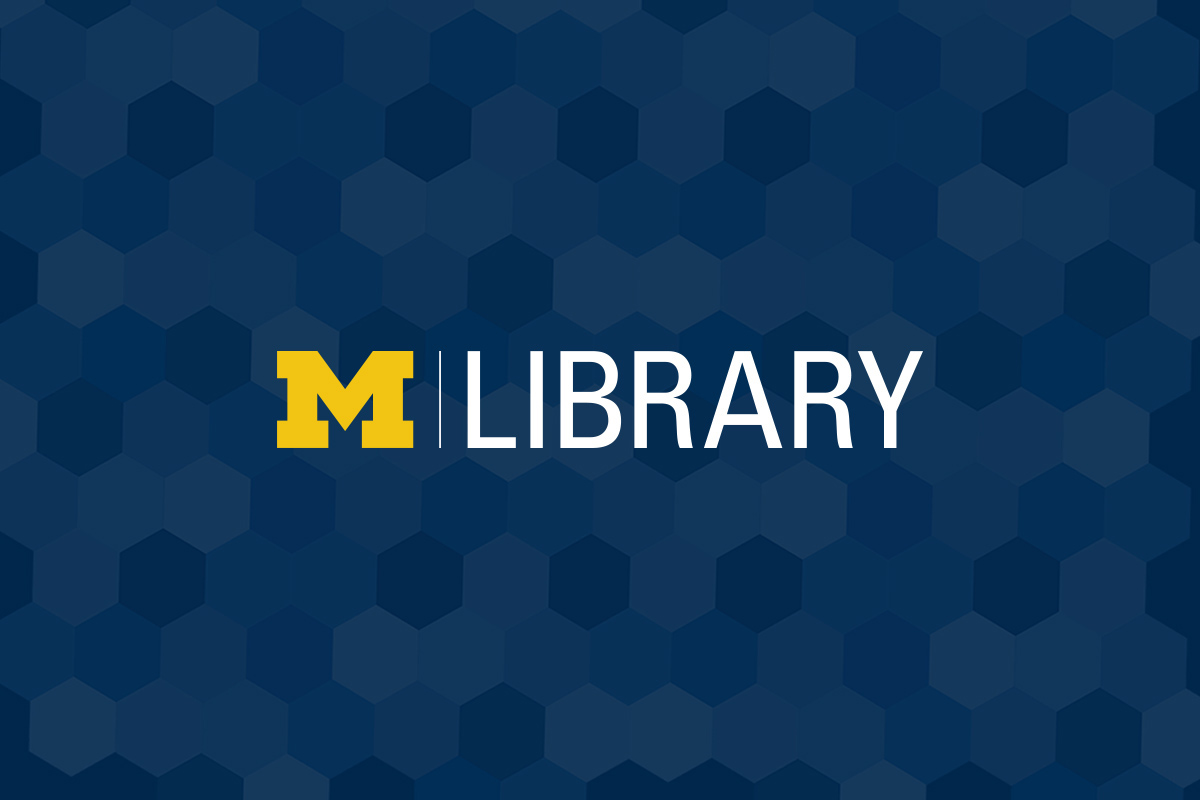
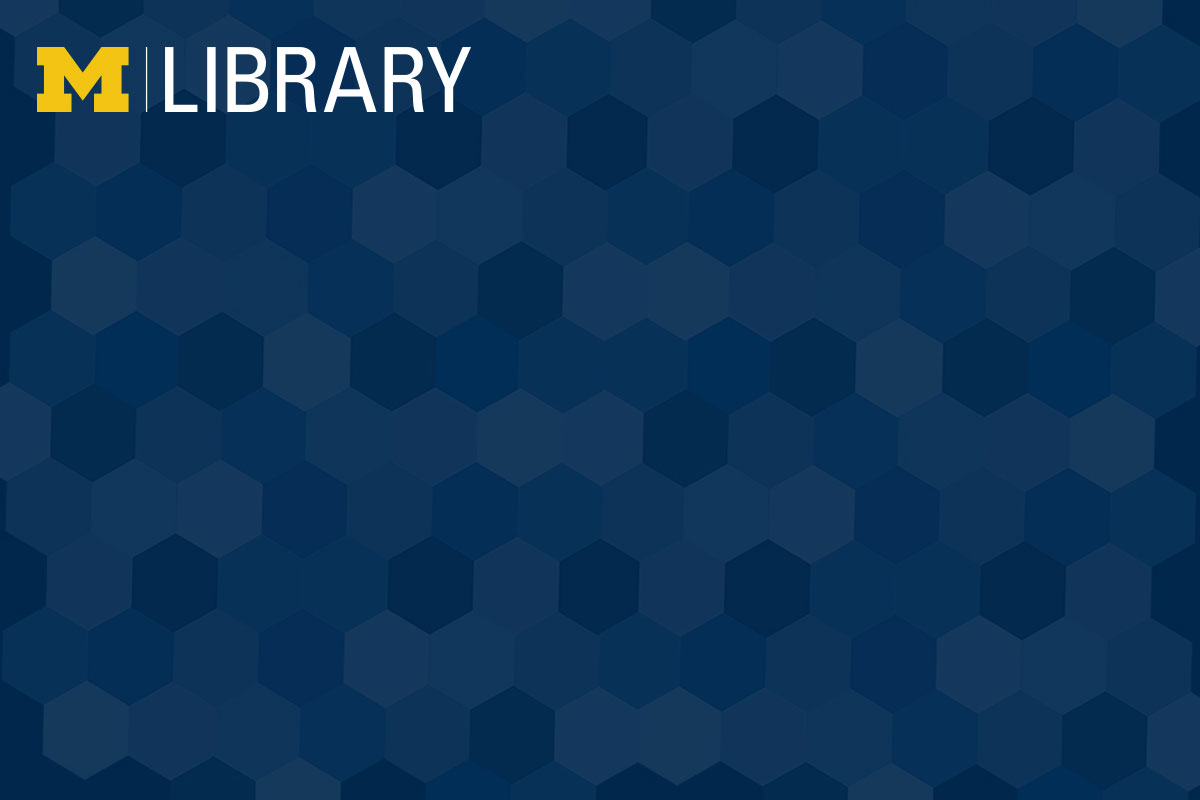
Markup review, update to images, and container fix

Changed region(s): [[0.2158, 0.4375, 0.7708, 0.5625], [0.0308, 0.0312, 0.4008, 0.1562]]

diff --git a/themes/mlibrary_new/css/style.css b/themes/mlibrary_new/css/style.css
@@ -116,10 +116,17 @@ main#content {
 
 .banner {
   margin: 0;
-  padding: 5em 0;
-  height: 20em;
+  height: 22em;
   background-size: cover;
-  background-position: center bottom;
+  background-position: center center;
+}
+
+.banner-container {
+  padding: 6.5em 0 0;
+}
+
+#header-claim-holder {
+    padding-bottom: 3em;
 }
 
 .banner a {
@@ -138,7 +145,7 @@ main#content {
 
  .banner-text--large {
   font-weight: bold;
-  font-size: 2.75em;
+  font-size: 3.5em;
  }
 
  .banner-text--medium {
@@ -155,8 +162,10 @@ main#content {
  }
 
  .banner-text--caption {
+  color: #fff;
   font-size: .75em;
   padding-right: .5em;
+  text-align: right;
 }
 
 /** Breadcrumbs + Share This **/
@@ -911,7 +920,7 @@ body>.navbar {
 }
 
 #banner {
-    min-height: 300px;
+    min-height: 360px;
     border-bottom: none
 }
 
@@ -1111,15 +1120,15 @@ body>.navbar {
 /** Media Queries **/
 
 @media(min-width: 767px) and (max-width: 991px ) {
+
   .section-nav-panel {
   width: 100%;
   margin-top: .5em;
   }
 
   .exhibit-gallery-theme-item {
-  width: calc(45%);
+  width: 45%;
   }
-
 
   .exhibit-navigation h3 {
   font-size: 1.2em;
@@ -1147,6 +1156,7 @@ body>.navbar {
 }
 
 @media (max-width:767px) {
+
    .section-preview .image img {
         width: 100%
     }
@@ -1156,6 +1166,7 @@ body>.navbar {
     .splash .logo {
         width: 100px
     }
+
     .splash h1 {
         font-size: 2em
     }
@@ -1174,10 +1185,20 @@ body>.navbar {
 
 @media only screen and (max-width: 767px) {
 
+  .tag-list a {
+    padding: 1em .25em .5em;
+    margin: .15em;
+    font-size: .75em;
+}
+
   .share-this {
     margin-top: 0;
   }
 
+  .banner {
+  height: 30em;
+  }
+ 
 	div#header-claim-holder .held, div#header-claim-holder p
 	{
 		max-width: 100%;
@@ -1249,10 +1270,6 @@ body>.navbar {
 
   .index-exhibits .panel-heading {
     height: 11em;
-  }
-
-  .banner {
-    height: 25em;
   }
 
   li.page-input form {

diff --git a/themes/mlibrary_new/exhibit-builder/exhibits/show.php b/themes/mlibrary_new/exhibit-builder/exhibits/show.php
@@ -25,19 +25,19 @@ else {
 //Close your PHP tags and add your show.php content here.
 ?>
 <div class="container">
-<section class="row">
-      <div class="col-xs-12 col-sm-3">
-        <nav class="exhibit-navigation" data-spy="affix" data-offset-top="250" data-offset-bottom="120">
-          <div class="nav-text-inline">
-            <h2 class="nav-text-inline-heading">Exhibit Contents</h2>
-            <button class="navbar-toggler nav-text-inline-button" type="button" data-toggle="collapse" data-target="#nav-toggle" aria-controls="nav-toggle" aria-expanded="false" aria-label="Toggle navigation">
-              <span class="glyphicon glyphicon-menu-hamburger" aria-hidden="true"></span>  
-            </button>
-          </div>
+  <section class="row">
+    <div class="col-xs-12 col-sm-3">
+      <nav class="exhibit-navigation" data-spy="affix" data-offset-top="250" data-offset-bottom="120">
+        <div class="nav-text-inline">
+          <h2 class="nav-text-inline-heading">Exhibit Contents</h2>
+          <button class="navbar-toggler nav-text-inline-button" type="button" data-toggle="collapse" data-target="#nav-toggle" aria-controls="nav-toggle" aria-expanded="false" aria-label="Toggle navigation">
+          <span class="glyphicon glyphicon-menu-hamburger" aria-hidden="true"></span>  
+          </button>
+        </div>
 
-          <div class="exhibit-overview collapse navbar-collapse" id="nav-toggle">
-            <ul id="exhibit-pages" class="exhibit-nav-list exhibit-pages-show">
-              <li><?php echo link_to_exhibit('Introduction'); ?></li>
+        <div class="exhibit-overview collapse navbar-collapse" id="nav-toggle">
+          <ul id="exhibit-pages" class="exhibit-nav-list exhibit-pages-show">
+            <li><?php echo link_to_exhibit('Introduction'); ?></li>
               <?php
                 $exhibit_page = get_current_record('exhibit_page', false);
                 set_exhibit_pages_for_loop_by_exhibit();
@@ -45,10 +45,10 @@ else {
                    echo mlibrary_new_exhibit_builder_page_summary($exhibitPage, $exhibit_page);
                 }
               ?>
-            </ul>
-          </div>
-        </nav>
-      </div>
+          </ul>
+        </div>
+      </nav>
+    </div>
 
   <section class="exhibit-content cf">
     <div class="col-xs-12 col-sm-9 show-wrapper">
@@ -105,7 +105,7 @@ else {
     </div>
    </div>
   </section>
-</div>
+  </div>
 </div>
 <?php }?>
 <?php echo foot(); ?>

diff --git a/themes/mlibrary_new/common/header.php b/themes/mlibrary_new/common/header.php
@@ -74,14 +74,15 @@
     </div>
     <?php if (isset($bodyid) and ($bodyid === 'home')): ?>
     <header>
-        <div class="col-sm-12 banner" style="background-image:url('<?php  echo img('header.jpg'); ?>');">
+        <div class="col-sm-12 banner" style="background-image:linear-gradient(rgba(0,0,0,.2), rgba(0,0,0,.5)), url('<?php  echo img('header.jpg'); ?>');">
             <div id="header-claim-holder">
-                <div class="container container-medium">
+                <div class="container container-medium banner-container">
                      <h1 class="banner-text--large">Online Exhibits</h1>
                         <p class="banner-text--medium">Brought to you by the <a href="http://lib.umich.edu">University of Michigan Library</a></p>
-                        <p class="banner-text--caption">Image: Rotunda Reading Room of the Old General Library from <a href="<?php echo url('exhibits/show/library-bicentennial'); ?>"> Stories of the University Library: A Bicentennial Exhibit</a></p>
+                       
                 </div>
             </div>
+             <p class="banner-text--caption">Image: Japser Francis Cropsey's painting of the University of Michigan campus from <a href="<?php echo url('exhibits/show/creating-a-campus/'); ?>"> Creating a Campus: A Cartographic Celebration of U-M's Bicentennial</a></p>
         </div>
     </header>
     <?php endif; ?>
@@ -117,11 +118,7 @@
         style="background-size:cover;background-position: center center;background-image:url('<?php  echo bs_header_bg(); ?>');">
 
     </header>
-    <!--Breadcrumb and Share Bar-->
-<!--End breadcrumb and share bar-->
 <?php endif;?>
-    <!--Breadcrumb and Share Bar-->
-<!--End breadcrumb and share bar-->
 
     <main id="content" role="main">
     

diff --git a/themes/mlibrary_new/exhibit-builder/exhibits/summary.php b/themes/mlibrary_new/exhibit-builder/exhibits/summary.php
@@ -21,7 +21,8 @@
     </div>
   </div>
 </section>
-  <div class="container">
+
+<div class="container">
   <div id="primary">
   
   <section class="exhibit-side-navigation">
@@ -48,7 +49,6 @@
     </section>
 
   <section id="summary-view" class="exhibit-content cf">
-
     <div class="col-xs-12 col-sm-9">
       <h2 class="section-title--large"> Introduction </h2>
       <?php echo metadata('exhibit','description',array('no_escape' => true)); ?>
@@ -61,13 +61,13 @@
                                          $page_card_info = mlibrary_new_display_exhibit_card_info($exhibitPage);
                                          if(!empty($page_card_info)) {
                                             $uri = exhibit_builder_exhibit_uri($exhibit, $exhibitPage);?>
-                                            <div class="exhibit-theme-item panel panel-default">
+                                            <section class="exhibit-theme-item panel panel-default">
                                               <a href= <?php echo html_escape($uri);?> >
                                                <div class="panel-heading"><?php  echo $page_card_info["image"];?></div>
                                                <div class="card-info panel-body"><h3 class="panel-card-title"><?php echo $page_card_info["title"];?></h3>
                                                <p class="panel-card-text"><?php echo html_escape($page_card_info["description"]);?></p></div>
                                              </a>                           
-                                            </div>
+                                         </section>
                                     <?php }}}}?>  
       </div>
     </div>

diff --git a/themes/mlibrary_new/exhibit-builder/exhibits/single.php b/themes/mlibrary_new/exhibit-builder/exhibits/single.php
@@ -1,4 +1,4 @@
-<div class="exhibit record panel panel-default index-featured-exhibit">
+<section class="exhibit record panel panel-default index-featured-exhibit">
 	<div class="panel-heading">
 		<?php if ($exhibitImage = record_image($exhibit,'original',array('class' => 'feature-banner-image'))):
 	         echo exhibit_builder_link_to_exhibit($exhibit, $exhibitImage); 
@@ -8,4 +8,4 @@
 		<h3 class="panel-card-title"><?php echo exhibit_builder_link_to_exhibit($exhibit); ?></h3>    
 		<p class="panel-card-text"><?php echo snippet_by_word_count(metadata($exhibit, 'description', array('no_escape' => true))); ?></p>
 	</div>
-</div>
+</section>

diff --git a/themes/mlibrary_new/exhibit-builder/exhibits/card.php b/themes/mlibrary_new/exhibit-builder/exhibits/card.php
@@ -1,8 +1,8 @@
-	<div class ="exhibit record panel panel-default index-exhibits">
+<section class ="exhibit record panel panel-default index-exhibits">
 		<div class="panel-heading">
 			<?php echo link_to($exhibit,'show',$exhibitImage); ?>
 		</div>
 		<div class ="card-info panel-body">
 	  	<h3 class="panel-card-title"><?php echo link_to($exhibit, 'show', strip_formatting($title)); ?></h3>
 		</div>
-	</div>
+</section>

diff --git a/themes/mlibrary_new/search/index.php b/themes/mlibrary_new/search/index.php
@@ -4,6 +4,7 @@
     echo head(array('title' => $pageTitle, 'bodyid' => 'search', 'bodyclass' => 'search'));
     $searchRecordTypes = get_search_record_types();
 ?>
+ <div class="container">
     <div class="col-xs-12">
       <ol class="breadcrumb">
         <li class="breadcrumb-item"><?php echo link_to_home_page(__('Home')); ?></li>
